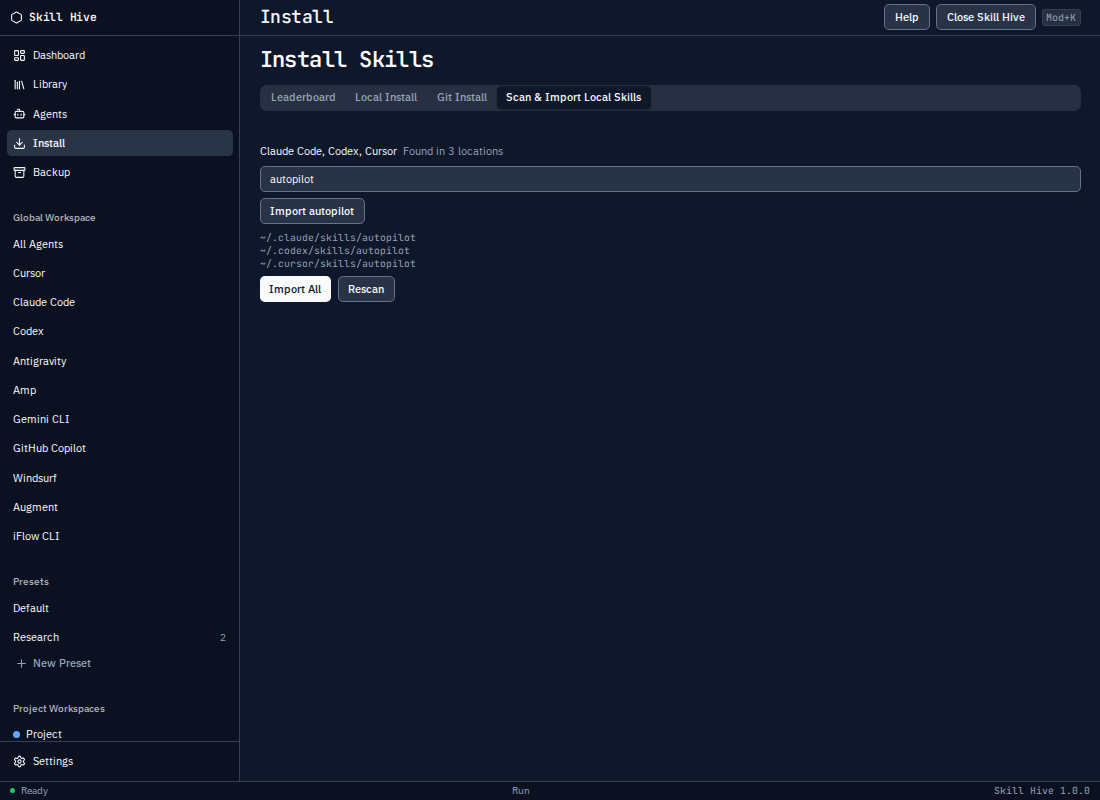
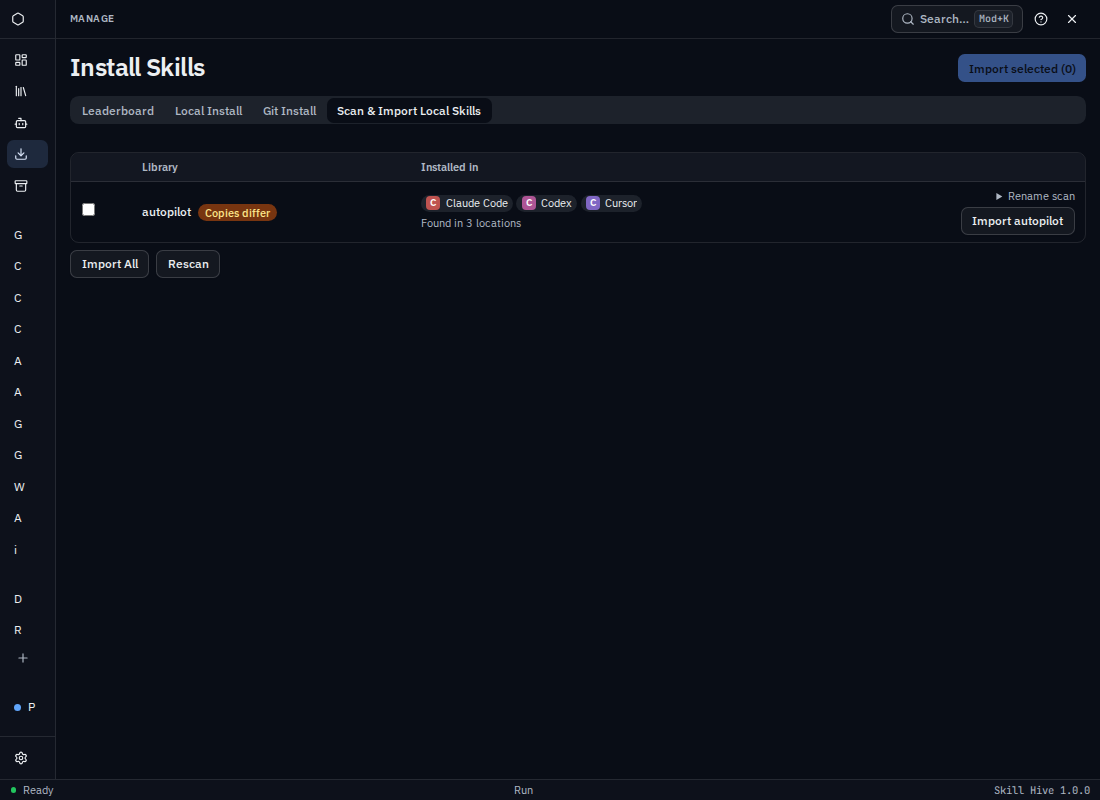
Expect scan agents as separate badges
The grouped scan row shows a letter tile and display name for each agent, so the visual check looks for Claude Code, Codex, and Cursor on their own instead of one comma-separated string.

diff --git a/e2e/library-grid.spec.ts b/e2e/library-grid.spec.ts
@@ -143,9 +143,12 @@ for (const theme of ["light", "dark"] as const) {
   test(`install scan ${theme}`, async ({ page }) => {
     await prepare(page, theme, 1100, { "skill-hive-preview-agents": "1" });
     await page.goto("/install?tab=scan");
-    await expect(page.getByText("Found in 3 locations")).toBeVisible();
+    const scan = page.getByTestId("install");
+    await expect(scan.getByText("Found in 3 locations")).toBeVisible();
     await expect(page.getByRole("button", { name: "claude_code" })).toHaveCount(0);
-    await expect(page.getByText("Claude Code, Codex, Cursor")).toBeVisible();
+    await expect(scan.getByText("Claude Code")).toBeVisible();
+    await expect(scan.getByText("Codex")).toBeVisible();
+    await expect(scan.getByText("Cursor")).toBeVisible();
     await page.screenshot({
       path: `docs/parity/screenshots/${theme}/install-scan-grouped.png`,
       fullPage: false,
